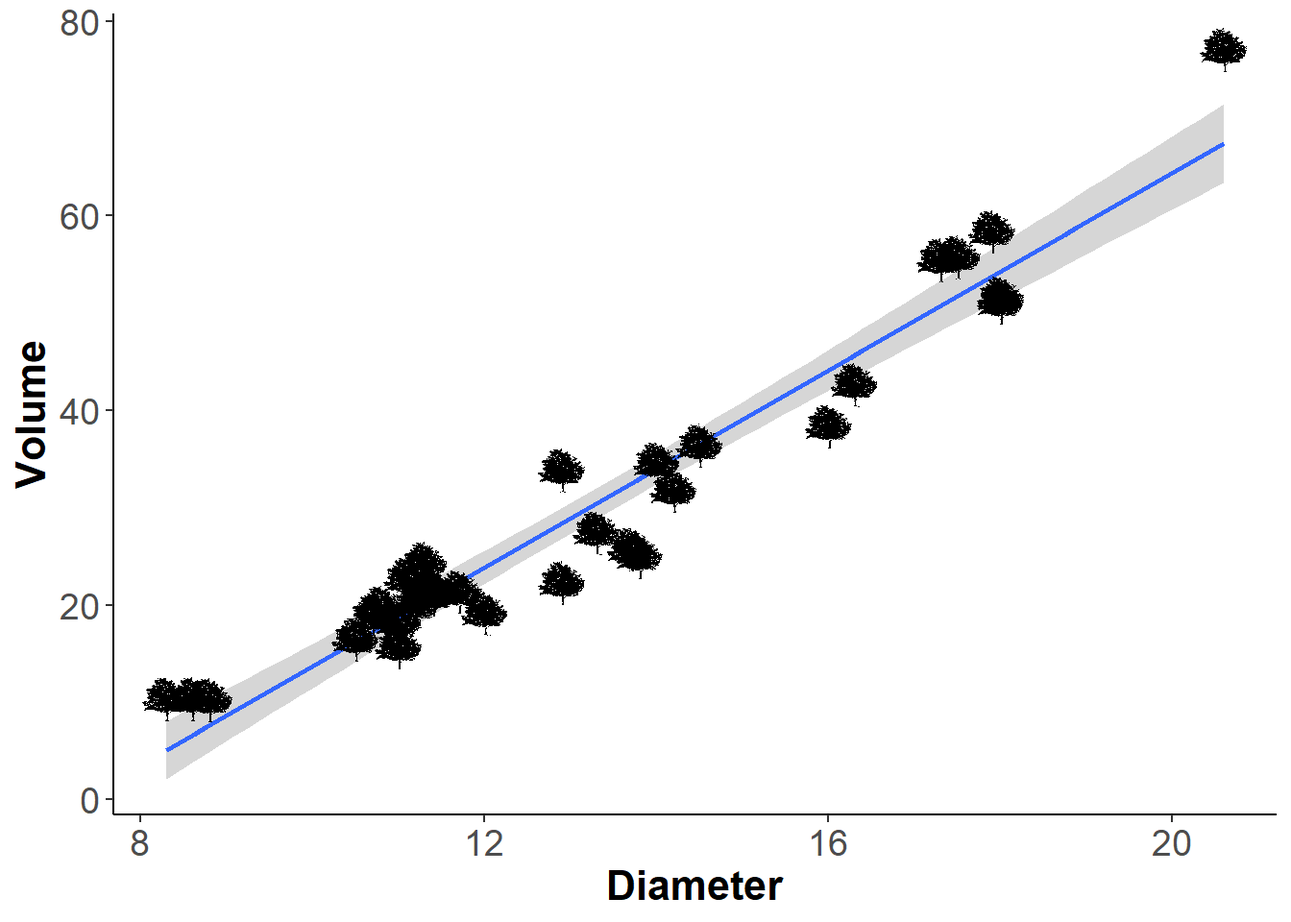
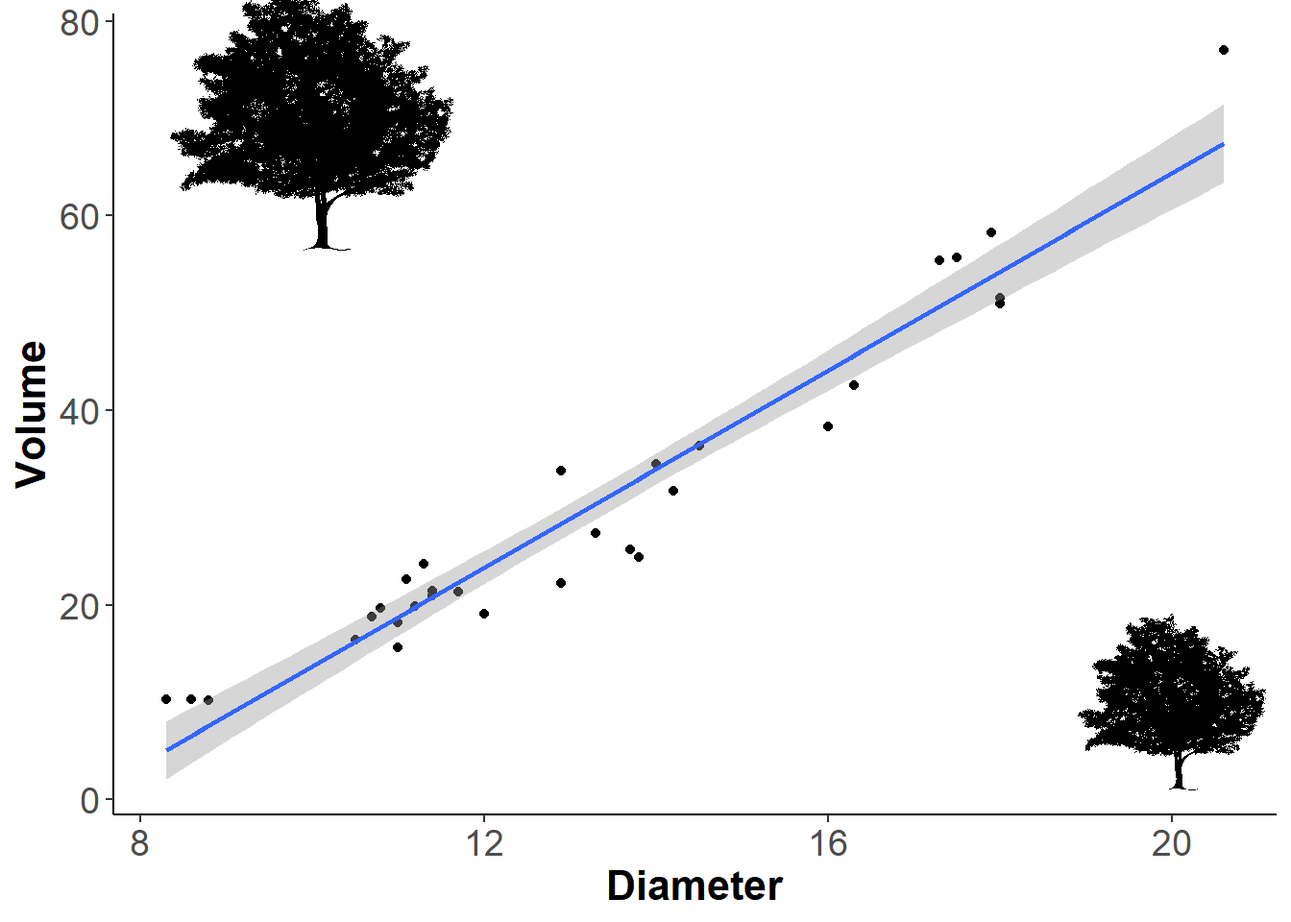
Added silhouettes next to legend.

diff --git a/docs/blog/rphylopic_ggplot2/index.html b/docs/blog/rphylopic_ggplot2/index.html
@@ -221,11 +221,16 @@ code span.wa { color: #60a0b0; font-weight: bold; font-style: italic; } /* Warni
     <h2 id="toc-title">On this page</h2>
    
   <ul>
-  <li><a href="#what-is-rphylopic" id="toc-what-is-rphylopic" class="nav-link active" data-scroll-target="#what-is-rphylopic">What is rphylopic?</a></li>
+  <li><a href="#the-rphylopic-package" id="toc-the-rphylopic-package" class="nav-link active" data-scroll-target="#the-rphylopic-package">The rphylopic package</a></li>
   <li><a href="#what-is-phylopic" id="toc-what-is-phylopic" class="nav-link" data-scroll-target="#what-is-phylopic">What is phylopic?</a></li>
-  <li><a href="#lets-put-a-silhouette-on-a-ggplot-graph" id="toc-lets-put-a-silhouette-on-a-ggplot-graph" class="nav-link" data-scroll-target="#lets-put-a-silhouette-on-a-ggplot-graph">Let’s put a silhouette on a ggplot graph</a>
+  <li><a href="#rphylopic-and-ggplot2" id="toc-rphylopic-and-ggplot2" class="nav-link" data-scroll-target="#rphylopic-and-ggplot2">rphylopic and ggplot2</a>
   <ul class="collapse">
+  <li><a href="#lets-start-with-a-simple-plot" id="toc-lets-start-with-a-simple-plot" class="nav-link" data-scroll-target="#lets-start-with-a-simple-plot">Let’s start with a simple plot</a></li>
   <li><a href="#now-lets-put-a-silhouette-on-that-plot" id="toc-now-lets-put-a-silhouette-on-that-plot" class="nav-link" data-scroll-target="#now-lets-put-a-silhouette-on-that-plot">Now let’s put a silhouette on that plot!</a></li>
+  <li><a href="#lets-put-the-silhouette-next-to-a-legend" id="toc-lets-put-the-silhouette-next-to-a-legend" class="nav-link" data-scroll-target="#lets-put-the-silhouette-next-to-a-legend">Let’s put the silhouette next to a legend</a></li>
+  <li><a href="#more-than-one-silhouette-on-the-plot" id="toc-more-than-one-silhouette-on-the-plot" class="nav-link" data-scroll-target="#more-than-one-silhouette-on-the-plot">More than one silhouette on the plot</a></li>
+  <li><a href="#points-as-silhouettes" id="toc-points-as-silhouettes" class="nav-link" data-scroll-target="#points-as-silhouettes">Points as silhouettes</a></li>
+  <li><a href="#lets-not-forget-the-attribution" id="toc-lets-not-forget-the-attribution" class="nav-link" data-scroll-target="#lets-not-forget-the-attribution">Let’s not forget the attribution</a></li>
   </ul></li>
   <li><a href="#final-graph" id="toc-final-graph" class="nav-link" data-scroll-target="#final-graph">Final graph!</a></li>
   </ul>
@@ -237,8 +242,8 @@ code span.wa { color: #60a0b0; font-weight: bold; font-style: italic; } /* Warni
 
 
 
-<section id="what-is-rphylopic" class="level2">
-<h2 class="anchored" data-anchor-id="what-is-rphylopic">What is rphylopic?</h2>
+<section id="the-rphylopic-package" class="level2">
+<h2 class="anchored" data-anchor-id="the-rphylopic-package">The rphylopic package</h2>
 <p>‘rphylopic’ is one of my most used r packages. It basically allows users to look for silhouettes that are freely available in <a href="www.phylopic.org">phylopic.org</a> and place them on any graph created in either base R or ggplot2. You can also use these silhouettes on maps or other plots, <strong>but here I will show you how to use rphylopic with ggplot2.</strong></p>
 <p>The documentation for phylopic is available <a href="https://github.com/palaeoverse-community/rphylopic">here</a>. This package is not new, it was created by Scott Chamberlain in 2018. <em>Fun fact</em>, I designed the original <a href="https://github.com/rstudio/cheatsheets/blob/main/rphylopic.pdf">cheatsheet</a> for this package back in 2019. Now it’s maintained by William Gearty and Lewis A Jones from the <a href="https://rphylopic.palaeoverse.org/">Paleoverse</a> team.</p>
 </section>
@@ -246,8 +251,8 @@ code span.wa { color: #60a0b0; font-weight: bold; font-style: italic; } /* Warni
 <h2 class="anchored" data-anchor-id="what-is-phylopic">What is phylopic?</h2>
 <p>Phylopic is this amazing website created by Mike Keesey where digital artists (like me!) upload their silhouettes representing a taxonomic category. Usually, they represent a species, but sometimes you also have silhouettes for a family or a genus. If you find yourself using a lot of silhouettes for your work, I highly encourage you to donate to his <a href="https://www.patreon.com/tmkeesey">patreon</a>. I have done so in the past. Oh and be sure to follow <a href="https://twitter.com/tmkeesey">Mike</a> and <a href="https://twitter.com/PhyloPic">phylopic</a> on twitter or mastodon too.</p>
 </section>
-<section id="lets-put-a-silhouette-on-a-ggplot-graph" class="level2">
-<h2 class="anchored" data-anchor-id="lets-put-a-silhouette-on-a-ggplot-graph">Let’s put a silhouette on a ggplot graph</h2>
+<section id="rphylopic-and-ggplot2" class="level2">
+<h2 class="anchored" data-anchor-id="rphylopic-and-ggplot2">rphylopic and ggplot2</h2>
 <p>First we will start by installing ‘rphylopic’:</p>
 <div class="cell">
 <div class="sourceCode cell-code" id="cb1"><pre class="sourceCode r code-with-copy"><code class="sourceCode r"><span id="cb1-1"><a href="#cb1-1" aria-hidden="true" tabindex="-1"></a><span class="co"># Stable version from CRAN</span></span>
@@ -265,6 +270,8 @@ code span.wa { color: #60a0b0; font-weight: bold; font-style: italic; } /* Warni
 <span id="cb2-4"><a href="#cb2-4" aria-hidden="true" tabindex="-1"></a><span class="co"># We will use the tree dataset </span></span>
 <span id="cb2-5"><a href="#cb2-5" aria-hidden="true" tabindex="-1"></a><span class="fu">data</span>(<span class="st">"trees"</span>)</span></code><button title="Copy to Clipboard" class="code-copy-button"><i class="bi"></i></button></pre></div>
 </div>
+<section id="lets-start-with-a-simple-plot" class="level3">
+<h3 class="anchored" data-anchor-id="lets-start-with-a-simple-plot">Let’s start with a simple plot</h3>
 <p>The trees dataset provides measurements of diameter, height, and volume of timber in 31 felled black cherry trees. The diameter is labled as girth in the dataset so let’s start by renaming it to diameter.</p>
 <div class="cell">
 <div class="sourceCode cell-code" id="cb3"><pre class="sourceCode r code-with-copy"><code class="sourceCode r"><span id="cb3-1"><a href="#cb3-1" aria-hidden="true" tabindex="-1"></a>trees <span class="ot">&lt;-</span> trees <span class="sc">%&gt;%</span> </span>
@@ -289,6 +296,7 @@ code span.wa { color: #60a0b0; font-weight: bold; font-style: italic; } /* Warni
 <p><img src="index_files/figure-html/unnamed-chunk-4-1.png" class="img-fluid" width="672"></p>
 </div>
 </div>
+</section>
 <section id="now-lets-put-a-silhouette-on-that-plot" class="level3">
 <h3 class="anchored" data-anchor-id="now-lets-put-a-silhouette-on-that-plot">Now let’s put a silhouette on that plot!</h3>
 <p>Let’s start by checking if we have silhouettes for the species we want. In this case a black cherry tree which is <em>Prunus serotina</em></p>
@@ -313,11 +321,11 @@ available.</code></pre>
 <pre><code>[1] "8b16a223-4e27-4ce5-83a4-904b86287d49"</code></pre>
 </div>
 </div>
-<p>It shows a warning saying we only have one silhouette for this species. Sometimes, you get a species with more than one silhouettes and you can see them all by clicking 1 on the console when prompted. See my <a href="https://twitter.com/gabbspalomo/status/1639645295209267201?s=20">tweet here for an example on how to do this</a>.</p>
-<p>Now back to our plot. Let’s add a silhouette. To know where to place the silhouette, think of the arguments x and y as coordinates on your graph and the silhouette as if it was a point you want to place there. So here I wanted it on the lower left part of the plot, which correxponds with x=20 and y = 10. The center of the silhouette will be placed on that point. The ysize is in relation to the y-axis scale.</p>
+<p>It shows a warning saying we only have one silhouette for this species. Sometimes, you get a species with more than one silhouette but you can see them all by typing 1 on the console when prompted. See my <a href="https://twitter.com/gabbspalomo/status/1639645295209267201?s=20">tweet here for an example on how to do this</a>.</p>
+<p>Now back to our plot. Let’s add a silhouette. To know where to place it, think of the arguments x and y as coordinates on your graph, and the silhouette as a point you want to place in the plot. So here, I wanted it on the lower left part of the plot, which corresponds with x=20 and y = 10. The center of the silhouette will be placed on that point. The ysize argument controls how tall the silhouette will be, and is in relation to the y-axis scale.</p>
 <div class="cell">
 <div class="sourceCode cell-code" id="cb11"><pre class="sourceCode r code-with-copy"><code class="sourceCode r"><span id="cb11-1"><a href="#cb11-1" aria-hidden="true" tabindex="-1"></a>ourplot <span class="sc">+</span></span>
-<span id="cb11-2"><a href="#cb11-2" aria-hidden="true" tabindex="-1"></a>  <span class="fu">add_phylopic</span>(<span class="at">img =</span> bct,</span>
+<span id="cb11-2"><a href="#cb11-2" aria-hidden="true" tabindex="-1"></a>  <span class="fu">add_phylopic</span>(<span class="at">img =</span> bct, <span class="co"># silhouette </span></span>
 <span id="cb11-3"><a href="#cb11-3" aria-hidden="true" tabindex="-1"></a>               <span class="at">x=</span><span class="dv">20</span>, <span class="co"># based on x axis coordinates</span></span>
 <span id="cb11-4"><a href="#cb11-4" aria-hidden="true" tabindex="-1"></a>               <span class="at">y=</span><span class="dv">10</span>, <span class="co"># based on y axis coordinates </span></span>
 <span id="cb11-5"><a href="#cb11-5" aria-hidden="true" tabindex="-1"></a>               <span class="at">ysize =</span> <span class="dv">20</span>) <span class="ot">-&gt;</span> ourplot </span>
@@ -326,48 +334,83 @@ available.</code></pre>
 <p><img src="index_files/figure-html/unnamed-chunk-7-1.png" class="img-fluid" width="672"></p>
 </div>
 </div>
-<p>If you want to add more than one silhouette, then just use the ‘add_phylopic()’ function again. I re-used the same silhouette, but you could use another one here.</p>
+</section>
+<section id="lets-put-the-silhouette-next-to-a-legend" class="level3">
+<h3 class="anchored" data-anchor-id="lets-put-the-silhouette-next-to-a-legend">Let’s put the silhouette next to a legend</h3>
+<p>Now because we want the silhouette outside the plot, we must set the coordinates to negative. In this case, the legend is at the bottom so we set the y-axis coordinates to -20.</p>
 <div class="cell">
-<div class="sourceCode cell-code" id="cb12"><pre class="sourceCode r code-with-copy"><code class="sourceCode r"><span id="cb12-1"><a href="#cb12-1" aria-hidden="true" tabindex="-1"></a>ourplot <span class="sc">+</span></span>
-<span id="cb12-2"><a href="#cb12-2" aria-hidden="true" tabindex="-1"></a>  <span class="fu">add_phylopic</span>(<span class="at">img =</span> bct,</span>
-<span id="cb12-3"><a href="#cb12-3" aria-hidden="true" tabindex="-1"></a>               <span class="at">x=</span><span class="dv">20</span>, <span class="co"># based on x axis coordinates</span></span>
-<span id="cb12-4"><a href="#cb12-4" aria-hidden="true" tabindex="-1"></a>               <span class="at">y=</span><span class="dv">10</span>, <span class="co"># based on y axis coordinates </span></span>
-<span id="cb12-5"><a href="#cb12-5" aria-hidden="true" tabindex="-1"></a>               <span class="at">ysize =</span> <span class="dv">20</span>)<span class="sc">+</span> <span class="co"># based on y axis coordinates </span></span>
-<span id="cb12-6"><a href="#cb12-6" aria-hidden="true" tabindex="-1"></a>  <span class="fu">add_phylopic</span>(<span class="at">img=</span>bct, </span>
-<span id="cb12-7"><a href="#cb12-7" aria-hidden="true" tabindex="-1"></a>             <span class="at">x=</span><span class="dv">10</span>, </span>
-<span id="cb12-8"><a href="#cb12-8" aria-hidden="true" tabindex="-1"></a>             <span class="at">y=</span><span class="dv">70</span>, </span>
-<span id="cb12-9"><a href="#cb12-9" aria-hidden="true" tabindex="-1"></a>             <span class="at">ysize =</span> <span class="dv">30</span>)</span></code><button title="Copy to Clipboard" class="code-copy-button"><i class="bi"></i></button></pre></div>
+<div class="sourceCode cell-code" id="cb12"><pre class="sourceCode r code-with-copy"><code class="sourceCode r"><span id="cb12-1"><a href="#cb12-1" aria-hidden="true" tabindex="-1"></a><span class="fu">ggplot</span>(trees,<span class="fu">aes</span>(Diameter, Volume)) <span class="sc">+</span></span>
+<span id="cb12-2"><a href="#cb12-2" aria-hidden="true" tabindex="-1"></a>  <span class="fu">geom_point</span>() <span class="sc">+</span></span>
+<span id="cb12-3"><a href="#cb12-3" aria-hidden="true" tabindex="-1"></a>  <span class="fu">geom_smooth</span>(<span class="at">method=</span><span class="st">'lm'</span>, <span class="at">formula =</span> y<span class="sc">~</span>x, <span class="fu">aes</span>(<span class="at">color =</span> <span class="st">'lm'</span>)) <span class="sc">+</span></span>
+<span id="cb12-4"><a href="#cb12-4" aria-hidden="true" tabindex="-1"></a>  <span class="fu">scale_color_manual</span>(<span class="at">name =</span> <span class="st">'Legend'</span>, <span class="at">values =</span> <span class="st">'blue'</span>)<span class="sc">+</span></span>
+<span id="cb12-5"><a href="#cb12-5" aria-hidden="true" tabindex="-1"></a>  <span class="fu">theme_classic</span>()<span class="sc">+</span></span>
+<span id="cb12-6"><a href="#cb12-6" aria-hidden="true" tabindex="-1"></a>  <span class="fu">theme</span>(<span class="at">axis.title =</span> <span class="fu">element_text</span>(<span class="at">face =</span> <span class="st">'bold'</span>, <span class="at">size =</span> <span class="dv">16</span>),</span>
+<span id="cb12-7"><a href="#cb12-7" aria-hidden="true" tabindex="-1"></a>        <span class="at">axis.text =</span> <span class="fu">element_text</span>(<span class="at">size =</span> <span class="dv">14</span>),</span>
+<span id="cb12-8"><a href="#cb12-8" aria-hidden="true" tabindex="-1"></a>        <span class="at">legend.position =</span> <span class="st">'bottom'</span>,</span>
+<span id="cb12-9"><a href="#cb12-9" aria-hidden="true" tabindex="-1"></a>      <span class="co"># The backgroun of the legend set to transparent because it </span></span>
+<span id="cb12-10"><a href="#cb12-10" aria-hidden="true" tabindex="-1"></a>      <span class="co"># overlaps the silhouette</span></span>
+<span id="cb12-11"><a href="#cb12-11" aria-hidden="true" tabindex="-1"></a>        <span class="at">legend.background =</span> <span class="fu">element_rect</span>(<span class="at">fill=</span><span class="st">"transparent"</span>))<span class="sc">+</span></span>
+<span id="cb12-12"><a href="#cb12-12" aria-hidden="true" tabindex="-1"></a>  <span class="fu">add_phylopic</span>(<span class="at">img =</span> bct, <span class="co"># silhouette </span></span>
+<span id="cb12-13"><a href="#cb12-13" aria-hidden="true" tabindex="-1"></a>               <span class="at">x=</span><span class="fl">12.5</span>, <span class="co"># based on x axis coordinates</span></span>
+<span id="cb12-14"><a href="#cb12-14" aria-hidden="true" tabindex="-1"></a>      <span class="co"># The y must be set to negative so it's outside the plot</span></span>
+<span id="cb12-15"><a href="#cb12-15" aria-hidden="true" tabindex="-1"></a>               <span class="at">y=</span><span class="sc">-</span><span class="dv">20</span>, <span class="co"># based on y axis coordinates </span></span>
+<span id="cb12-16"><a href="#cb12-16" aria-hidden="true" tabindex="-1"></a>               <span class="at">ysize =</span> <span class="dv">8</span>) <span class="ot">-&gt;</span> ourplot_legend </span>
+<span id="cb12-17"><a href="#cb12-17" aria-hidden="true" tabindex="-1"></a>ourplot_legend</span></code><button title="Copy to Clipboard" class="code-copy-button"><i class="bi"></i></button></pre></div>
 <div class="cell-output-display">
 <p><img src="index_files/figure-html/unnamed-chunk-8-1.png" class="img-fluid" width="672"></p>
 </div>
 </div>
-<p>If you wanted the points to be little trees instead of points, then you can do so like this. I personally don’t like plots like this but I am showing you it’s possible:</p>
+</section>
+<section id="more-than-one-silhouette-on-the-plot" class="level3">
+<h3 class="anchored" data-anchor-id="more-than-one-silhouette-on-the-plot">More than one silhouette on the plot</h3>
+<p>If you want to add more than one silhouette, then just use the ‘add_phylopic()’ function again. I re-used the same silhouette, but you could use another one here.</p>
 <div class="cell">
-<div class="sourceCode cell-code" id="cb13"><pre class="sourceCode r code-with-copy"><code class="sourceCode r"><span id="cb13-1"><a href="#cb13-1" aria-hidden="true" tabindex="-1"></a><span class="fu">ggplot</span>(trees,</span>
-<span id="cb13-2"><a href="#cb13-2" aria-hidden="true" tabindex="-1"></a>       <span class="fu">aes</span>(Diameter, Volume)) <span class="sc">+</span></span>
-<span id="cb13-3"><a href="#cb13-3" aria-hidden="true" tabindex="-1"></a>    <span class="fu">geom_point</span>() <span class="sc">+</span></span>
-<span id="cb13-4"><a href="#cb13-4" aria-hidden="true" tabindex="-1"></a>    <span class="fu">geom_smooth</span>(<span class="at">method=</span><span class="st">'lm'</span>, <span class="at">formula =</span> y<span class="sc">~</span>x) <span class="sc">+</span></span>
-<span id="cb13-5"><a href="#cb13-5" aria-hidden="true" tabindex="-1"></a>    <span class="fu">theme_classic</span>()<span class="sc">+</span></span>
-<span id="cb13-6"><a href="#cb13-6" aria-hidden="true" tabindex="-1"></a>    <span class="fu">theme</span>(<span class="at">axis.title =</span> <span class="fu">element_text</span>(<span class="at">face =</span> <span class="st">'bold'</span>, <span class="at">size =</span> <span class="dv">16</span>),</span>
-<span id="cb13-7"><a href="#cb13-7" aria-hidden="true" tabindex="-1"></a>          <span class="at">axis.text =</span> <span class="fu">element_text</span>(<span class="at">size =</span> <span class="dv">14</span>)) <span class="ot">-&gt;</span> plot2</span>
-<span id="cb13-8"><a href="#cb13-8" aria-hidden="true" tabindex="-1"></a></span>
-<span id="cb13-9"><a href="#cb13-9" aria-hidden="true" tabindex="-1"></a><span class="cf">for</span>(i <span class="cf">in</span> <span class="dv">1</span><span class="sc">:</span><span class="fu">nrow</span>(trees)){</span>
-<span id="cb13-10"><a href="#cb13-10" aria-hidden="true" tabindex="-1"></a>    plot2 <span class="ot">&lt;-</span>  plot2 <span class="sc">+</span> <span class="co"># These two names must match </span></span>
-<span id="cb13-11"><a href="#cb13-11" aria-hidden="true" tabindex="-1"></a>    <span class="fu">add_phylopic</span>(<span class="at">img =</span> bct, </span>
-<span id="cb13-12"><a href="#cb13-12" aria-hidden="true" tabindex="-1"></a>                 <span class="at">x =</span> trees<span class="sc">$</span>Diameter[i],</span>
-<span id="cb13-13"><a href="#cb13-13" aria-hidden="true" tabindex="-1"></a>                 <span class="at">y =</span> trees<span class="sc">$</span>Volume[i], </span>
-<span id="cb13-14"><a href="#cb13-14" aria-hidden="true" tabindex="-1"></a>                 <span class="at">ysize =</span> <span class="dv">5</span>)</span>
-<span id="cb13-15"><a href="#cb13-15" aria-hidden="true" tabindex="-1"></a>}</span>
-<span id="cb13-16"><a href="#cb13-16" aria-hidden="true" tabindex="-1"></a></span>
-<span id="cb13-17"><a href="#cb13-17" aria-hidden="true" tabindex="-1"></a>plot2</span></code><button title="Copy to Clipboard" class="code-copy-button"><i class="bi"></i></button></pre></div>
+<div class="sourceCode cell-code" id="cb13"><pre class="sourceCode r code-with-copy"><code class="sourceCode r"><span id="cb13-1"><a href="#cb13-1" aria-hidden="true" tabindex="-1"></a>ourplot <span class="sc">+</span></span>
+<span id="cb13-2"><a href="#cb13-2" aria-hidden="true" tabindex="-1"></a>  <span class="fu">add_phylopic</span>(<span class="at">img =</span> bct, <span class="co"># First silhouette </span></span>
+<span id="cb13-3"><a href="#cb13-3" aria-hidden="true" tabindex="-1"></a>               <span class="at">x=</span><span class="dv">20</span>, <span class="co"># based on x axis coordinates</span></span>
+<span id="cb13-4"><a href="#cb13-4" aria-hidden="true" tabindex="-1"></a>               <span class="at">y=</span><span class="dv">10</span>, <span class="co"># based on y axis coordinates </span></span>
+<span id="cb13-5"><a href="#cb13-5" aria-hidden="true" tabindex="-1"></a>               <span class="at">ysize =</span> <span class="dv">20</span>)<span class="sc">+</span> <span class="co"># based on y axis coordinates </span></span>
+<span id="cb13-6"><a href="#cb13-6" aria-hidden="true" tabindex="-1"></a>  <span class="fu">add_phylopic</span>(<span class="at">img=</span>bct, <span class="co"># Second silhouette </span></span>
+<span id="cb13-7"><a href="#cb13-7" aria-hidden="true" tabindex="-1"></a>               <span class="at">x=</span><span class="dv">10</span>, </span>
+<span id="cb13-8"><a href="#cb13-8" aria-hidden="true" tabindex="-1"></a>               <span class="at">y=</span><span class="dv">70</span>, </span>
+<span id="cb13-9"><a href="#cb13-9" aria-hidden="true" tabindex="-1"></a>               <span class="at">ysize =</span> <span class="dv">30</span>)</span></code><button title="Copy to Clipboard" class="code-copy-button"><i class="bi"></i></button></pre></div>
 <div class="cell-output-display">
 <p><img src="index_files/figure-html/unnamed-chunk-9-1.png" class="img-fluid" width="672"></p>
 </div>
 </div>
+</section>
+<section id="points-as-silhouettes" class="level3">
+<h3 class="anchored" data-anchor-id="points-as-silhouettes">Points as silhouettes</h3>
+<p>If you wanted the points to be little trees instead of points, then you can do so like this. I personally don’t like plots like this but I am showing you it’s possible:</p>
+<div class="cell">
+<div class="sourceCode cell-code" id="cb14"><pre class="sourceCode r code-with-copy"><code class="sourceCode r"><span id="cb14-1"><a href="#cb14-1" aria-hidden="true" tabindex="-1"></a><span class="fu">ggplot</span>(trees,</span>
+<span id="cb14-2"><a href="#cb14-2" aria-hidden="true" tabindex="-1"></a>       <span class="fu">aes</span>(Diameter, Volume)) <span class="sc">+</span></span>
+<span id="cb14-3"><a href="#cb14-3" aria-hidden="true" tabindex="-1"></a>    <span class="fu">geom_point</span>() <span class="sc">+</span></span>
+<span id="cb14-4"><a href="#cb14-4" aria-hidden="true" tabindex="-1"></a>    <span class="fu">geom_smooth</span>(<span class="at">method=</span><span class="st">'lm'</span>, <span class="at">formula =</span> y<span class="sc">~</span>x) <span class="sc">+</span></span>
+<span id="cb14-5"><a href="#cb14-5" aria-hidden="true" tabindex="-1"></a>    <span class="fu">theme_classic</span>()<span class="sc">+</span></span>
+<span id="cb14-6"><a href="#cb14-6" aria-hidden="true" tabindex="-1"></a>    <span class="fu">theme</span>(<span class="at">axis.title =</span> <span class="fu">element_text</span>(<span class="at">face =</span> <span class="st">'bold'</span>, <span class="at">size =</span> <span class="dv">16</span>),</span>
+<span id="cb14-7"><a href="#cb14-7" aria-hidden="true" tabindex="-1"></a>          <span class="at">axis.text =</span> <span class="fu">element_text</span>(<span class="at">size =</span> <span class="dv">14</span>)) <span class="ot">-&gt;</span> plot2</span>
+<span id="cb14-8"><a href="#cb14-8" aria-hidden="true" tabindex="-1"></a></span>
+<span id="cb14-9"><a href="#cb14-9" aria-hidden="true" tabindex="-1"></a><span class="cf">for</span>(i <span class="cf">in</span> <span class="dv">1</span><span class="sc">:</span><span class="fu">nrow</span>(trees)){</span>
+<span id="cb14-10"><a href="#cb14-10" aria-hidden="true" tabindex="-1"></a>    plot2 <span class="ot">&lt;-</span>  plot2 <span class="sc">+</span> <span class="co"># These two names must match </span></span>
+<span id="cb14-11"><a href="#cb14-11" aria-hidden="true" tabindex="-1"></a>    <span class="fu">add_phylopic</span>(<span class="at">img =</span> bct, </span>
+<span id="cb14-12"><a href="#cb14-12" aria-hidden="true" tabindex="-1"></a>                 <span class="at">x =</span> trees<span class="sc">$</span>Diameter[i],</span>
+<span id="cb14-13"><a href="#cb14-13" aria-hidden="true" tabindex="-1"></a>                 <span class="at">y =</span> trees<span class="sc">$</span>Volume[i], </span>
+<span id="cb14-14"><a href="#cb14-14" aria-hidden="true" tabindex="-1"></a>                 <span class="at">ysize =</span> <span class="dv">5</span>)</span>
+<span id="cb14-15"><a href="#cb14-15" aria-hidden="true" tabindex="-1"></a>}</span>
+<span id="cb14-16"><a href="#cb14-16" aria-hidden="true" tabindex="-1"></a></span>
+<span id="cb14-17"><a href="#cb14-17" aria-hidden="true" tabindex="-1"></a>plot2</span></code><button title="Copy to Clipboard" class="code-copy-button"><i class="bi"></i></button></pre></div>
+<div class="cell-output-display">
+<p><img src="index_files/figure-html/unnamed-chunk-10-1.png" class="img-fluid" width="672"></p>
+</div>
+</div>
+</section>
+<section id="lets-not-forget-the-attribution" class="level3">
+<h3 class="anchored" data-anchor-id="lets-not-forget-the-attribution">Let’s not forget the attribution</h3>
 <p>Now let’s not forget to add the attribution of the silhouette to the plot! You can also add the attribution in the caption or in the acknowledgment section of a publication.</p>
 <div class="cell">
-<div class="sourceCode cell-code" id="cb14"><pre class="sourceCode r code-with-copy"><code class="sourceCode r"><span id="cb14-1"><a href="#cb14-1" aria-hidden="true" tabindex="-1"></a>uuid_bct <span class="ot">&lt;-</span> <span class="fu">get_uuid</span>(<span class="at">name =</span> <span class="st">'Cornus florida'</span>)</span>
-<span id="cb14-2"><a href="#cb14-2" aria-hidden="true" tabindex="-1"></a><span class="fu">get_attribution</span>(uuid_bct)</span></code><button title="Copy to Clipboard" class="code-copy-button"><i class="bi"></i></button></pre></div>
+<div class="sourceCode cell-code" id="cb15"><pre class="sourceCode r code-with-copy"><code class="sourceCode r"><span id="cb15-1"><a href="#cb15-1" aria-hidden="true" tabindex="-1"></a>uuid_bct <span class="ot">&lt;-</span> <span class="fu">get_uuid</span>(<span class="at">name =</span> <span class="st">'Cornus florida'</span>)</span>
+<span id="cb15-2"><a href="#cb15-2" aria-hidden="true" tabindex="-1"></a><span class="fu">get_attribution</span>(uuid_bct)</span></code><button title="Copy to Clipboard" class="code-copy-button"><i class="bi"></i></button></pre></div>
 <div class="cell-output cell-output-stdout">
 <pre><code>$contributor
 [1] "Gabriela Palomo-Munoz"
@@ -393,17 +436,17 @@ $license
 <section id="final-graph" class="level2">
 <h2 class="anchored" data-anchor-id="final-graph">Final graph!</h2>
 <div class="cell">
-<div class="sourceCode cell-code" id="cb16"><pre class="sourceCode r code-with-copy"><code class="sourceCode r"><span id="cb16-1"><a href="#cb16-1" aria-hidden="true" tabindex="-1"></a>att <span class="ot">&lt;-</span> <span class="fu">get_attribution</span>(uuid_bct)<span class="sc">$</span>contributor </span>
-<span id="cb16-2"><a href="#cb16-2" aria-hidden="true" tabindex="-1"></a></span>
-<span id="cb16-3"><a href="#cb16-3" aria-hidden="true" tabindex="-1"></a>ourplot <span class="sc">+</span></span>
-<span id="cb16-4"><a href="#cb16-4" aria-hidden="true" tabindex="-1"></a>  <span class="fu">labs</span>(<span class="at">caption =</span> <span class="fu">paste0</span>(<span class="st">'Silhouette available in phylopic.org, designed by '</span>, att))</span></code><button title="Copy to Clipboard" class="code-copy-button"><i class="bi"></i></button></pre></div>
+<div class="sourceCode cell-code" id="cb17"><pre class="sourceCode r code-with-copy"><code class="sourceCode r"><span id="cb17-1"><a href="#cb17-1" aria-hidden="true" tabindex="-1"></a>att <span class="ot">&lt;-</span> <span class="fu">get_attribution</span>(uuid_bct)<span class="sc">$</span>contributor </span>
+<span id="cb17-2"><a href="#cb17-2" aria-hidden="true" tabindex="-1"></a></span>
+<span id="cb17-3"><a href="#cb17-3" aria-hidden="true" tabindex="-1"></a>ourplot <span class="sc">+</span></span>
+<span id="cb17-4"><a href="#cb17-4" aria-hidden="true" tabindex="-1"></a>  <span class="fu">labs</span>(<span class="at">caption =</span> <span class="fu">paste0</span>(<span class="st">'Silhouette available in phylopic.org, designed by '</span>, att))</span></code><button title="Copy to Clipboard" class="code-copy-button"><i class="bi"></i></button></pre></div>
 <div class="cell-output-display">
-<p><img src="index_files/figure-html/unnamed-chunk-11-1.png" class="img-fluid" width="672"></p>
+<p><img src="index_files/figure-html/unnamed-chunk-12-1.png" class="img-fluid" width="672"></p>
 </div>
 </div>
 <p>And don’t forget to cite rphylopic too:</p>
 <div class="cell">
-<div class="sourceCode cell-code" id="cb17"><pre class="sourceCode r code-with-copy"><code class="sourceCode r"><span id="cb17-1"><a href="#cb17-1" aria-hidden="true" tabindex="-1"></a><span class="fu">citation</span>(<span class="st">"rphylopic"</span>)</span></code><button title="Copy to Clipboard" class="code-copy-button"><i class="bi"></i></button></pre></div>
+<div class="sourceCode cell-code" id="cb18"><pre class="sourceCode r code-with-copy"><code class="sourceCode r"><span id="cb18-1"><a href="#cb18-1" aria-hidden="true" tabindex="-1"></a><span class="fu">citation</span>(<span class="st">"rphylopic"</span>)</span></code><button title="Copy to Clipboard" class="code-copy-button"><i class="bi"></i></button></pre></div>
 <div class="cell-output cell-output-stdout">
 <pre><code>
 To cite rphylopic in publications, use the following citation:

diff --git a/docs/blog.html b/docs/blog.html
@@ -170,7 +170,7 @@ ul.task-list li input[type="checkbox"] {
 
 <div class="quarto-listing quarto-listing-container-default" id="listing-listing">
 <div class="list quarto-listing-default">
-<div class="quarto-post image-right" data-index="0" data-categories="ggplot2,rphylopic,silhouettes" data-listing-date-sort="1680062400000" data-listing-file-modified-sort="1680099947786" data-listing-reading-time-sort="5.735">
+<div class="quarto-post image-right" data-index="0" data-categories="ggplot2,rphylopic,silhouettes" data-listing-date-sort="1680062400000" data-listing-file-modified-sort="1680129346600" data-listing-reading-time-sort="7.05">
 <div class="thumbnail">
 <p><a href="./blog/rphylopic_ggplot2/index.html"> <img src="./blog/rphylopic_ggplot2/rphylopic.png" class="thumnail-image"> </a></p>
 </div>
